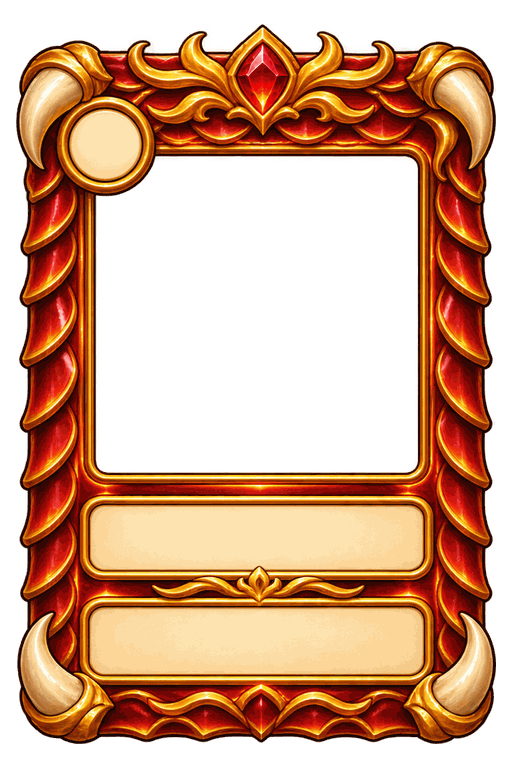
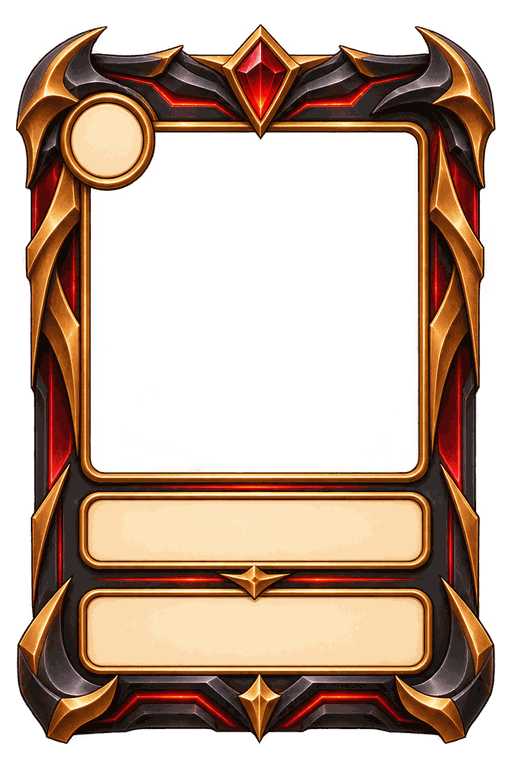
竜族フレームを黒い竜鋼と翼の紋章へ変更する

diff --git a/js/ui/precache.js b/js/ui/precache.js
@@ -1,2 +1,2 @@
-self.CF_CACHE_VERSION="59a6d4855ade45ad";
+self.CF_CACHE_VERSION="dd64a51144a1c13c";
 self.CF_ASSETS=["index.html","manifest.webmanifest","css/accessibility.css","css/account.css","css/battle.css","css/beast.css","css/card-base.css","css/card-zoom.css","css/chat.css","css/coin-toss.css","css/components.css","css/deck.css","css/experience.css","css/finishing-art.css","css/fit.css","css/help-guide.css","css/hologram.css","css/home-tabs.css","css/home.css","css/kingdom.css","css/layout.css","css/mana-growth.css","css/materials.css","css/motion.css","css/mp.css","css/polish.css","css/rank-frames.css","css/rank-rewards.css","css/rarity-assets.css","css/rarity-fx.css","css/settings.css","css/stage.css","css/step5.css","css/style.css","css/text-fit.css","css/theme.css","css/tokens.css","css/tutorial.css","css/weather.css","js/game/Card.js","js/game/Castle.js","js/game/Elements.js","js/game/Game.js","js/game/Monster.js","js/game/Player.js","js/game/Road.js","js/game/Setup.js","js/game/Soldier.js","js/game/Stage.js","js/game/Weather.js","js/game/strategies.js","js/game/visibility.js","js/main.js","js/ui/Accessibility.js","js/ui/Account.js","js/ui/AccountPanel.js","js/ui/Animations.js","js/ui/BattleLayout.js","js/ui/Card3D.js","js/ui/CardGL.js","js/ui/CardGuide.js","js/ui/CardInfo.js","js/ui/CardRelief.js","js/ui/CardZoom.js","js/ui/ChatView.js","js/ui/CollectionView.js","js/ui/Cosmetics.js","js/ui/DebugPanel.js","js/ui/DeckEditor.js","js/ui/DeckPreview.js","js/ui/DeckStore.js","js/ui/HandView.js","js/ui/HelpView.js","js/ui/Hologram.js","js/ui/Home.js","js/ui/LocalSetup.js","js/ui/MatchStats.js","js/ui/MaterialSkin.js","js/ui/MissionView.js","js/ui/Music.js","js/ui/OnlineClient.js","js/ui/ProfileView.js","js/ui/ProgressPanel.js","js/ui/Progression.js","js/ui/RankEmblem.js","js/ui/RankRewardsView.js","js/ui/RankedView.js","js/ui/Renderer.js","js/ui/RoomView.js","js/ui/Session.js","js/ui/Settings.js","js/ui/SocialView.js","js/ui/Sound.js","js/ui/Targeting.js","js/ui/Tutorial.js","js/ui/UpgradePanel.js","js/ui/WeatherView.js","js/ui/art.js","js/ui/card-shapes.js","js/ui/cardFrame.js","js/ui/cardView.js","js/ui/config.js","js/ui/factionArt.js","js/ui/handOrder.js","js/ui/look.js","js/ui/motion.js","js/ui/musicScene.js","js/ui/pills.js","js/ui/profileArt.js","js/ui/rarity.js","js/ui/skinArt.js","js/ui/stories.js","js/ui/syncCheck.js","js/ui/text.js","js/vendor/three/BufferGeometryUtils.js","js/vendor/three/GLTFLoader.js","js/vendor/three/three.module.min.js","data/cards.json","data/castles.json","data/classic/cards.json","data/classic/elements.json","data/classic/factions/dragon.json","data/classic/factions/forest.json","data/classic/reactions.json","data/classic/rules.json","data/decks.json","data/factions/cards/demon.json","data/factions/cards/dragon.json","data/factions/cards/forest.json","data/factions/cards/kingdom.json","data/factions/elements.json","data/factions/factions.json","data/factions/reactions.json","data/factions/rules.json","data/gacha.json","data/missions.json","data/modes.json","data/monsters.json","data/profile.json","data/progression.json","data/ranks.json","data/rarities.json","data/rules.json","data/seasons.json","data/shop.json","data/stages.json","data/stamps.json","data/upgrades.json","data/weather.json","assets/asset-manifest.json","assets/bg/board-meadow-compact.png","assets/bg/board-meadow.png","assets/bg/board.png","assets/bg/home-account.png","assets/bg/home-castle.png","assets/bg/home-deck.png","assets/bg/home-gacha.png","assets/bg/home-settings.png","assets/bg/home-sky.png","assets/bg/kingdom-meadow.png","assets/bg/kingdom-valley.png","assets/bg/stage-dark-forest.png","assets/bg/stage-ice.png","assets/bg/stage-lava.png","assets/bg/stage-meadow.png","assets/bg/stage-ruins.png","assets/bg/title-compact.png","assets/bg/title.png","assets/cards/card-absolute-zero.png","assets/cards/card-adapt.png","assets/cards/card-antidote.png","assets/cards/card-apocalypse.png","assets/cards/card-apprentice-archer.png","assets/cards/card-apprentice-mage.png","assets/cards/card-archer.png","assets/cards/card-archmage.png","assets/cards/card-attack-dice.png","assets/cards/card-barrier.png","assets/cards/card-beast-bat.png","assets/cards/card-beast-demon-king.png","assets/cards/card-beast-demon.png","assets/cards/card-beast-dragon.png","assets/cards/card-beast-ghost.png","assets/cards/card-beast-goblin.png","assets/cards/card-beast-golem.png","assets/cards/card-beast-mimic.png","assets/cards/card-beast-skeleton.png","assets/cards/card-beast-slime.png","assets/cards/card-beast-treant.png","assets/cards/card-beast-vampire.png","assets/cards/card-big-shield.png","assets/cards/card-big-thunder.png","assets/cards/card-blessing.png","assets/cards/card-bolt.png","assets/cards/card-buff-dice.png","assets/cards/card-cavalry.png","assets/cards/card-coin-dice.png","assets/cards/card-death-mist.png","assets/cards/card-decoy.png","assets/cards/card-deep-freeze.png","assets/cards/card-desperate-shot.png","assets/cards/card-dragon-knight.png","assets/cards/card-earth-hammer.png","assets/cards/card-earth-king.png","assets/cards/card-earth-spirit.png","assets/cards/card-fac-demon-blood-veil.png","assets/cards/card-fac-demon-bone-shield.png","assets/cards/card-fac-demon-chaos-pulse.png","assets/cards/card-fac-demon-chaos-rod.png","assets/cards/card-fac-demon-curse-mark.png","assets/cards/card-fac-demon-curser.png","assets/cards/card-fac-demon-echo-soul.png","assets/cards/card-fac-demon-frost-blade.png","assets/cards/card-fac-demon-frost-breath.png","assets/cards/card-fac-demon-imp.png","assets/cards/card-fac-demon-poison-mist.png","assets/cards/card-fac-demon-shadow-scythe.png","assets/cards/card-fac-demon-shadow.png","assets/cards/card-fac-demon-skeleton.png","assets/cards/card-fac-demon-soul-shard.png","assets/cards/card-fac-dragon-ash-veil.png","assets/cards/card-fac-dragon-blood-drop.png","assets/cards/card-fac-dragon-bolt.png","assets/cards/card-fac-dragon-dragoon.png","assets/cards/card-fac-dragon-fang-sword.png","assets/cards/card-fac-dragon-fireball.png","assets/cards/card-fac-dragon-flame-breath.png","assets/cards/card-fac-dragon-flame-whelp.png","assets/cards/card-fac-dragon-recruit.png","assets/cards/card-fac-dragon-thunder-spear.png","assets/cards/card-fac-dragon-thunder-whelp.png","assets/cards/card-fac-dragon-whelp-scale.png","assets/cards/card-fac-forest-bark-shield.png","assets/cards/card-fac-forest-beastman.png","assets/cards/card-fac-forest-druid.png","assets/cards/card-fac-forest-earth-spirit.png","assets/cards/card-fac-forest-elf.png","assets/cards/card-fac-forest-fire-bolt.png","assets/cards/card-fac-forest-fire-spirit.png","assets/cards/card-fac-forest-fissure.png","assets/cards/card-fac-forest-gust.png","assets/cards/card-fac-forest-life-drop.png","assets/cards/card-fac-forest-thorn-wall.png","assets/cards/card-fac-forest-water-spirit.png","assets/cards/card-fac-forest-water-stream.png","assets/cards/card-fac-forest-wind-spirit.png","assets/cards/card-fac-king-archer.png","assets/cards/card-fac-king-cavalry.png","assets/cards/card-fac-king-decoy.png","assets/cards/card-fac-king-heal.png","assets/cards/card-fac-king-heavy.png","assets/cards/card-fac-king-holy-ray.png","assets/cards/card-fac-king-holy-sword.png","assets/cards/card-fac-king-infantry.png","assets/cards/card-fac-king-lumina-lance.png","assets/cards/card-fac-king-lumina.png","assets/cards/card-fac-king-minor-heal.png","assets/cards/card-fac-king-priest.png","assets/cards/card-fac-king-purify.png","assets/cards/card-fac-king-shield.png","assets/cards/card-fac-king-wall.png","assets/cards/card-fire-king.png","assets/cards/card-fire-spirit.png","assets/cards/card-fireball.png","assets/cards/card-flame-sword.png","assets/cards/card-frost-breath.png","assets/cards/card-frozen-world.png","assets/cards/card-gate.png","assets/cards/card-giant.png","assets/cards/card-glacier.png","assets/cards/card-god-dice.png","assets/cards/card-god-shield.png","assets/cards/card-god-sword.png","assets/cards/card-goddess.png","assets/cards/card-gold-vein.png","assets/cards/card-great-earth-spirit.png","assets/cards/card-great-fire-spirit.png","assets/cards/card-great-heal.png","assets/cards/card-great-water-spirit.png","assets/cards/card-great-wind-spirit.png","assets/cards/card-heal-dice.png","assets/cards/card-heal.png","assets/cards/card-heavy.png","assets/cards/card-hero.png","assets/cards/card-holy-light.png","assets/cards/card-holy-shield.png","assets/cards/card-holy-sword.png","assets/cards/card-infantry.png","assets/cards/card-inferno.png","assets/cards/card-iron-sword.png","assets/cards/card-judgment.png","assets/cards/card-king-treasure.png","assets/cards/card-knight.png","assets/cards/card-life-steal.png","assets/cards/card-longbowman.png","assets/cards/card-mage.png","assets/cards/card-magic-sword.png","assets/cards/card-mana-crystal.png","assets/cards/card-mana-dice.png","assets/cards/card-mana-drop.png","assets/cards/card-mana-raid.png","assets/cards/card-mana-shard.png","assets/cards/card-mana-spring.png","assets/cards/card-meteor.png","assets/cards/card-minor-heal.png","assets/cards/card-paladin.png","assets/cards/card-plague.png","assets/cards/card-poison-mist.png","assets/cards/card-powder-keg.png","assets/cards/card-raijin.png","assets/cards/card-random-dice.png","assets/cards/card-reflect.png","assets/cards/card-sage.png","assets/cards/card-sandbag.png","assets/cards/card-scout.png","assets/cards/card-shield-dice.png","assets/cards/card-shield.png","assets/cards/card-sky-archer.png","assets/cards/card-sniper.png","assets/cards/card-sorcerer.png","assets/cards/card-spearman.png","assets/cards/card-starfall.png","assets/cards/card-steel-shield.png","assets/cards/card-stone-wall.png","assets/cards/card-thief.png","assets/cards/card-thunder.png","assets/cards/card-toxic-rain.png","assets/cards/card-treasure.png","assets/cards/card-venom.png","assets/cards/card-wall.png","assets/cards/card-water-king.png","assets/cards/card-water-spear.png","assets/cards/card-water-spirit.png","assets/cards/card-weather-call.png","assets/cards/card-wind-bow.png","assets/cards/card-wind-king.png","assets/cards/card-wind-spirit.png","assets/cards/card-world-tree-dew.png","assets/cards/frame-beast.png","assets/cards/frame-common.png","assets/cards/frame-epic.png","assets/cards/frame-faction-demon.png","assets/cards/frame-faction-dragon.png","assets/cards/frame-faction-forest.png","assets/cards/frame-faction-kingdom.png","assets/cards/frame-legendary.png","assets/cards/frame-rare.png","assets/cards/frame-skin-bronze.png","assets/cards/frame-skin-champion.png","assets/cards/frame-skin-diamond.png","assets/cards/frame-skin-gold.png","assets/cards/frame-skin-iron.png","assets/cards/frame-skin-master.png","assets/cards/frame-skin-platinum.png","assets/cards/frame-skin-silver.png","assets/cards/frame-special.png","assets/cards/frame-uncommon.png","assets/cards/relief/frame-beast-raised.png","assets/cards/relief/frame-beast-relief.png","assets/cards/relief/frame-common-raised.png","assets/cards/relief/frame-common-relief.png","assets/cards/relief/frame-epic-raised.png","assets/cards/relief/frame-epic-relief.png","assets/cards/relief/frame-legendary-raised.png","assets/cards/relief/frame-legendary-relief.png","assets/cards/relief/frame-rare-raised.png","assets/cards/relief/frame-rare-relief.png","assets/cards/relief/frame-skin-bronze-raised.png","assets/cards/relief/frame-skin-bronze-relief.png","assets/cards/relief/frame-skin-champion-raised.png","assets/cards/relief/frame-skin-champion-relief.png","assets/cards/relief/frame-skin-diamond-raised.png","assets/cards/relief/frame-skin-diamond-relief.png","assets/cards/relief/frame-skin-gold-raised.png","assets/cards/relief/frame-skin-gold-relief.png","assets/cards/relief/frame-skin-iron-raised.png","assets/cards/relief/frame-skin-iron-relief.png","assets/cards/relief/frame-skin-master-raised.png","assets/cards/relief/frame-skin-master-relief.png","assets/cards/relief/frame-skin-platinum-raised.png","assets/cards/relief/frame-skin-platinum-relief.png","assets/cards/relief/frame-skin-silver-raised.png","assets/cards/relief/frame-skin-silver-relief.png","assets/cards/relief/frame-special-raised.png","assets/cards/relief/frame-special-relief.png","assets/cards/relief/frame-uncommon-raised.png","assets/cards/relief/frame-uncommon-relief.png","assets/cards/window-beast.png","assets/cards/window-common.png","assets/cards/window-epic.png","assets/cards/window-legendary.png","assets/cards/window-rare.png","assets/cards/window-special.png","assets/cards/window-uncommon.png","assets/castles/barracks-blue-damaged-1.png","assets/castles/barracks-blue-damaged-2.png","assets/castles/barracks-blue-damaged-3.png","assets/castles/barracks-blue.png","assets/castles/barracks-orange-damaged-1.png","assets/castles/barracks-orange-damaged-2.png","assets/castles/barracks-orange-damaged-3.png","assets/castles/barracks-orange.png","assets/castles/castle-blue-damaged-1.png","assets/castles/castle-blue-damaged-2.png","assets/castles/castle-blue-damaged-3.png","assets/castles/castle-blue-ruined.png","assets/castles/castle-blue.png","assets/castles/castle-orange-damaged-1.png","assets/castles/castle-orange-damaged-2.png","assets/castles/castle-orange-damaged-3.png","assets/castles/castle-orange-ruined.png","assets/castles/castle-orange.png","assets/castles/fortress-blue-damaged-1.png","assets/castles/fortress-blue-damaged-2.png","assets/castles/fortress-blue-damaged-3.png","assets/castles/fortress-blue.png","assets/castles/fortress-orange-damaged-1.png","assets/castles/fortress-orange-damaged-2.png","assets/castles/fortress-orange-damaged-3.png","assets/castles/fortress-orange.png","assets/castles/tower-blue-damaged-1.png","assets/castles/tower-blue-damaged-2.png","assets/castles/tower-blue-damaged-3.png","assets/castles/tower-blue.png","assets/castles/tower-orange-damaged-1.png","assets/castles/tower-orange-damaged-2.png","assets/castles/tower-orange-damaged-3.png","assets/castles/tower-orange.png","assets/frames/edge-faction-demon.png","assets/frames/edge-faction-dragon.png","assets/frames/edge-faction-forest.png","assets/frames/edge-faction-kingdom.png","assets/frames/factions.json","assets/frames/rank-frame-bronze.png","assets/frames/rank-frame-champion.png","assets/frames/rank-frame-diamond.png","assets/frames/rank-frame-gold.png","assets/frames/rank-frame-iron.png","assets/frames/rank-frame-master.png","assets/frames/rank-frame-platinum.png","assets/frames/rank-frame-silver.png","assets/fx/dust.png","assets/fx/evolve-1.png","assets/fx/evolve-2.png","assets/fx/evolve-3.png","assets/fx/explosion.png","assets/fx/fireball.png","assets/fx/fusion.png","assets/fx/heal.png","assets/fx/ice.png","assets/fx/lightning.png","assets/fx/lucky-reward.png","assets/fx/poison.png","assets/models/card-beast.glb","assets/models/card-common.glb","assets/models/card-epic.glb","assets/models/card-legendary.glb","assets/models/card-rare.glb","assets/models/card-skin-champion.glb","assets/models/card-skin-diamond.glb","assets/models/card-skin-master.glb","assets/models/card-skin-platinum.glb","assets/models/card-slab.glb","assets/models/card-special.glb","assets/models/card-uncommon.glb","assets/models/rank-emblem-champion.glb","assets/models/rank-emblem-diamond.glb","assets/models/rank-emblem-master.glb","assets/models/rank-emblem-platinum.glb","assets/profiles/archer.png","assets/profiles/hero.png","assets/profiles/infantry.png","assets/profiles/knight.png","assets/profiles/mage.png","assets/profiles/spearman.png","assets/ranks/rank-bronze.png","assets/ranks/rank-champion.png","assets/ranks/rank-diamond.png","assets/ranks/rank-gold.png","assets/ranks/rank-iron.png","assets/ranks/rank-master.png","assets/ranks/rank-platinum.png","assets/ranks/rank-silver.png","assets/skins/back-crimson-raised.png","assets/skins/back-crimson.png","assets/skins/back-faction-demon.png","assets/skins/back-faction-dragon.png","assets/skins/back-faction-forest.png","assets/skins/back-faction-kingdom.png","assets/skins/back-forest-raised.png","assets/skins/back-forest.png","assets/skins/back-gold-raised.png","assets/skins/back-gold.png","assets/skins/back-rank-bronze-raised.png","assets/skins/back-rank-bronze-relief.png","assets/skins/back-rank-bronze.png","assets/skins/back-rank-champion-raised.png","assets/skins/back-rank-champion-relief.png","assets/skins/back-rank-champion.png","assets/skins/back-rank-diamond-raised.png","assets/skins/back-rank-diamond-relief.png","assets/skins/back-rank-diamond.png","assets/skins/back-rank-gold-raised.png","assets/skins/back-rank-gold-relief.png","assets/skins/back-rank-gold.png","assets/skins/back-rank-iron-raised.png","assets/skins/back-rank-iron-relief.png","assets/skins/back-rank-iron.png","assets/skins/back-rank-master-raised.png","assets/skins/back-rank-master-relief.png","assets/skins/back-rank-master.png","assets/skins/back-rank-platinum-raised.png","assets/skins/back-rank-platinum-relief.png","assets/skins/back-rank-platinum.png","assets/skins/back-rank-silver-raised.png","assets/skins/back-rank-silver-relief.png","assets/skins/back-rank-silver.png","assets/skins/back-royal-raised.png","assets/skins/back-royal.png","assets/skins/castle-crimson.png","assets/skins/castle-forest.png","assets/skins/castle-frost.png","assets/skins/castle-gold.png","assets/skins/castle-shadow.png","assets/skins/fx-azure.png","assets/skins/fx-emerald.png","assets/skins/fx-gold.png","assets/skins/fx-violet.png","assets/skins/icon-dragon-knight.png","assets/skins/icon-giant.png","assets/skins/icon-paladin.png","assets/skins/icon-sage.png","assets/skins/icon-scout.png","assets/skins/icon-sniper.png","assets/skins/title-hunter.png","assets/skins/title-legend.png","assets/skins/title-lucky.png","assets/skins/title-rookie.png","assets/skins/title-wall.png","assets/skins/unit-crimson.png","assets/skins/unit-forest.png","assets/skins/unit-frost.png","assets/skins/unit-gold.png","assets/skins/unit-royal.png","assets/skins/unit-shadow.png","assets/skins/win-aurora.png","assets/skins/win-gold.png","assets/skins/win-sakura.png","assets/ui/app-icon-192.png","assets/ui/app-icon-512.png","assets/ui/app-icon-maskable-512.png","assets/ui/apple-touch-icon.png","assets/ui/banner-win.png","assets/ui/btn-blue.png","assets/ui/btn-cream.png","assets/ui/btn-green.png","assets/ui/btn-orange.png","assets/ui/btn-red.png","assets/ui/btn-round.png","assets/ui/button-end-turn.png","assets/ui/card-back.png","assets/ui/home/casual.png","assets/ui/home/catalog.png","assets/ui/home/deck.png","assets/ui/home/friend.png","assets/ui/home/gacha.png","assets/ui/home/mission.png","assets/ui/home/profile.png","assets/ui/home/rank.png","assets/ui/home/ranking.png","assets/ui/home/settings.png","assets/ui/home/shop.png","assets/ui/home/skin.png","assets/ui/icon-coin.png","assets/ui/icon-earth.png","assets/ui/icon-fire.png","assets/ui/icon-heart.png","assets/ui/icon-help.png","assets/ui/icon-kind-defense.png","assets/ui/icon-kind-soldier.png","assets/ui/icon-kind-spell.png","assets/ui/icon-kind-weapon.png","assets/ui/icon-kind-wild.png","assets/ui/icon-luck.png","assets/ui/icon-mode-local.png","assets/ui/icon-mode-online.png","assets/ui/icon-mode-solo.png","assets/ui/icon-mp.png","assets/ui/icon-rarity-common.png","assets/ui/icon-rarity-epic.png","assets/ui/icon-rarity-legendary.png","assets/ui/icon-rarity-rare.png","assets/ui/icon-rarity-special.png","assets/ui/icon-rarity-uncommon.png","assets/ui/icon-water.png","assets/ui/icon-wind.png","assets/ui/kingdom-crest.png","assets/ui/kingdom-parchment.png","assets/ui/kingdom-platform.png","assets/ui/kingdom-primary.png","assets/ui/kingdom-secondary.png","assets/ui/kingdom-wood.png","assets/ui/logo.png","assets/ui/natural/danger-40-left.png","assets/ui/natural/danger-40-middle.png","assets/ui/natural/danger-40-right.png","assets/ui/natural/danger-44-left.png","assets/ui/natural/danger-44-middle.png","assets/ui/natural/danger-44-right.png","assets/ui/natural/danger-72-left.png","assets/ui/natural/danger-72-middle.png","assets/ui/natural/danger-72-right.png","assets/ui/natural/frame.png","assets/ui/natural/leather-tile.png","assets/ui/natural/neutral-40-left.png","assets/ui/natural/neutral-40-middle.png","assets/ui/natural/neutral-40-right.png","assets/ui/natural/neutral-44-left.png","assets/ui/natural/neutral-44-middle.png","assets/ui/natural/neutral-44-right.png","assets/ui/natural/neutral-72-left.png","assets/ui/natural/neutral-72-middle.png","assets/ui/natural/neutral-72-right.png","assets/ui/natural/neutral-wide-full.png","assets/ui/natural/oak-tile.png","assets/ui/natural/paper-tile.png","assets/ui/natural/primary-40-left.png","assets/ui/natural/primary-40-middle.png","assets/ui/natural/primary-40-right.png","assets/ui/natural/primary-44-left.png","assets/ui/natural/primary-44-middle.png","assets/ui/natural/primary-44-right.png","assets/ui/natural/primary-72-left.png","assets/ui/natural/primary-72-middle.png","assets/ui/natural/primary-72-right.png","assets/ui/natural/primary-wide-full.png","assets/ui/natural/round-neutral.png","assets/ui/natural/round-selected.png","assets/ui/natural/selected-40-left.png","assets/ui/natural/selected-40-middle.png","assets/ui/natural/selected-40-right.png","assets/ui/natural/selected-44-left.png","assets/ui/natural/selected-44-middle.png","assets/ui/natural/selected-44-right.png","assets/ui/natural/selected-72-left.png","assets/ui/natural/selected-72-middle.png","assets/ui/natural/selected-72-right.png","assets/ui/panel-parchment.png","assets/ui/result-defeat.png","assets/ui/result-victory.png","assets/ui/sign-hp.png","assets/ui/stamps/again.png","assets/ui/stamps/gg.png","assets/ui/stamps/go.png","assets/ui/stamps/hello.png","assets/ui/stamps/nice.png","assets/ui/stamps/ouch.png","assets/ui/stamps/scared.png","assets/ui/stamps/smug.png","assets/ui/stamps/sorry.png","assets/ui/stamps/thanks.png","assets/ui/stamps/think.png","assets/ui/stamps/yay.png","assets/ui/tap-plate.png","assets/ui/title-castle-blue.png","assets/ui/title-castle-orange.png","assets/ui/title-infantry-orange.png","assets/ui/title-knight-blue.png","assets/ui/weather-coin-rain.png","assets/ui/weather-fog.png","assets/ui/weather-heavy-rain.png","assets/ui/weather-rain.png","assets/ui/weather-sandstorm.png","assets/ui/weather-storm.png","assets/ui/weather-sunny.png","assets/units/apprentice-archer-blue.png","assets/units/apprentice-archer-orange.png","assets/units/apprentice-mage-blue.png","assets/units/apprentice-mage-orange.png","assets/units/archer-blue.png","assets/units/archer-orange.png","assets/units/archmage-blue.png","assets/units/archmage-orange.png","assets/units/cavalry-blue.png","assets/units/cavalry-orange.png","assets/units/dragon-knight-blue.png","assets/units/dragon-knight-orange.png","assets/units/earth-spirit.png","assets/units/fire-spirit.png","assets/units/giant-blue.png","assets/units/giant-orange.png","assets/units/great-earth-spirit.png","assets/units/great-fire-spirit.png","assets/units/great-water-spirit.png","assets/units/great-wind-spirit.png","assets/units/heavy-blue.png","assets/units/heavy-orange.png","assets/units/hero-blue.png","assets/units/hero-orange.png","assets/units/infantry-blue.png","assets/units/infantry-orange.png","assets/units/knight-blue.png","assets/units/knight-orange.png","assets/units/longbowman-blue.png","assets/units/longbowman-orange.png","assets/units/mage-blue.png","assets/units/mage-orange.png","assets/units/monster-bat.png","assets/units/monster-demon-king.png","assets/units/monster-demon.png","assets/units/monster-dragon.png","assets/units/monster-ghost.png","assets/units/monster-goblin.png","assets/units/monster-golem.png","assets/units/monster-mimic.png","assets/units/monster-skeleton.png","assets/units/monster-slime.png","assets/units/monster-treant.png","assets/units/monster-vampire.png","assets/units/paladin-blue.png","assets/units/paladin-orange.png","assets/units/sage-blue.png","assets/units/sage-orange.png","assets/units/scout-blue.png","assets/units/scout-orange.png","assets/units/sky-archer-blue.png","assets/units/sky-archer-orange.png","assets/units/sniper-blue.png","assets/units/sniper-orange.png","assets/units/sorcerer-blue.png","assets/units/sorcerer-orange.png","assets/units/spearman-blue.png","assets/units/spearman-orange.png","assets/units/water-spirit.png","assets/units/wind-spirit.png"];

diff --git a/assets/review/faction-frames/index.html b/assets/review/faction-frames/index.html
@@ -3,7 +3,7 @@
 <h1>4陣営の表・側面・裏</h1><p>同じ縮尺で表示。共通外形64×96mm、本体厚3.52mm。<a href="construction.svg">寸法・接続ガイド</a> ／ <a href="README.md">Blender向け仕様</a></p><main></main>
 <script type="module">
 const root=new URL('../../../',location.href);const d=await(await fetch(new URL('assets/frames/factions.json',root))).json();
-const labels={kingdom:'王国：銀翼と王冠',forest:'森の同盟：編み根と琥珀',demon:'魔族軍：黒鉄と骨',dragon:'竜族帝国：鱗と爪'};
+const labels={kingdom:'王国：銀翼と王冠',forest:'森の同盟：編み根と琥珀',demon:'魔族軍：黒鉄と骨',dragon:'竜族帝国：竜鋼と翼'};
 for(const id of ['kingdom','forest','demon','dragon']){const f=d.factions[id],a=document.createElement('article');a.innerHTML=`<h2>${labels[id]}</h2><div class="views"><img class="face" alt="表" src="${new URL('assets/'+f.views.front,root)}"><img class="edge" alt="右側面" src="${new URL('assets/'+f.views.edge,root)}"><img class="face" alt="裏" src="${new URL('assets/'+f.views.back,root)}"></div><div class="labels"><span>表</span><span>右側面</span><span>裏</span></div>`;document.querySelector('main').append(a)}
 await Promise.all([...document.images].map(i=>i.decode()));document.documentElement.dataset.ready='true';
 </script></html>

diff --git a/assets/review/faction-frames/README.md b/assets/review/faction-frames/README.md
@@ -1,6 +1,6 @@
 # 4陣営カードの表・側面・裏
 
-既存の `frame-legendary.png` の立体感・磨かれた素材・装飾密度を参考に、4陣営の表・側面・裏を同時に生成。王国は銀翼・王冠・青い宝石、森は編み根・琥珀・生命樹、魔族は黒鉄・骨の角・紫水晶、竜は重なる鱗・爪・紅玉。表の枠自体に陣営固有の造形を持たせ、裏面にも大きなレリーフを置いた。キャラクターの絵は入れない。
+既存の `frame-legendary.png` の立体感・磨かれた素材・装飾密度を参考に、4陣営の表・側面・裏を同時に生成。王国は銀翼・王冠・青い宝石、森は編み根・琥珀・生命樹、魔族は黒鉄・骨の角・紫水晶、竜は黒い竜鋼・角・翼の紋章・紅玉。表の枠自体に陣営固有の造形を持たせ、裏面にも大きなレリーフを置いた。キャラクターの絵は入れない。
 
 ## ファイル
 
@@ -17,10 +17,10 @@
 数値と共通外形は `factions.json` / `construction.svg` を正とする。幅64mm・高さ96mm・本体厚3.52mm（既存UIの厚み/幅0.055）、角半径3mm、面取り0.6mm。実寸を変える場合は全寸法を同じ倍率で変更する。
 
 1. **表裏共通の板を1枚作る。** 表用と裏用の別々の外周メッシュを画像の輪郭から作らない。原画には生成上の小さな差があるため、共通の角丸長方形で揃える。
-2. **縁を連続した一周の構造にする。** Z=-1.76〜-1.36mmが裏の金属レール、-1.36〜+1.36mmが芯材、+1.36〜+1.76mmが表の金属レール。芯材は王国が青いエナメル、森が編み根と木、魔族が紫の黒鉄、竜が赤い鱗。表裏の装飾は共通レールで受け、側面の芯材へ細かな模様の位相を無理に繋がない。
-3. **四隅の留め具を表裏共有の部品にする。** 中心はX=±27mm、Y=±43mm、10×10mm、Z=-2.1〜+2.1mm。角の丸みに沿わせる。正面だけの薄い金具を別々に貼る構造にしない。これは部品の基準位置・取り付け範囲で、四角い金具の外形指定ではない。王国は宝石金具、森は琥珀を包む根、魔族は黒鉄金具、竜は爪の形へ造形する。王国の中央宝石と森の中央の帯は、Y=0の左右共通カラーとして追加する。
+2. **縁を連続した一周の構造にする。** Z=-1.76〜-1.36mmが裏の金属レール、-1.36〜+1.36mmが芯材、+1.36〜+1.76mmが表の金属レール。芯材は王国が青いエナメル、森が編み根と木、魔族が紫の黒鉄、竜が黒い竜鋼と赤いエナメル。表裏の装飾は共通レールで受け、側面の芯材へ細かな模様の位相を無理に繋がない。
+3. **四隅の留め具を表裏共有の部品にする。** 中心はX=±27mm、Y=±43mm、10×10mm、Z=-2.1〜+2.1mm。角の丸みに沿わせる。正面だけの薄い金具を別々に貼る構造にしない。これは部品の基準位置・取り付け範囲で、四角い金具の外形指定ではない。王国は宝石金具、森は琥珀を包む根、魔族は黒鉄金具、竜は金属の角の形へ造形する。王国の中央宝石と森の中央の帯は、Y=0の左右共通カラーとして追加する。
 4. **表の絵・名前・説明を凹ませる。** PNGの透明な絵窓は合成用。実物を表裏へ貫通させず、絵の受け面をZ=+1.0mmに置く。絵の受け面は左11mm・上15.5mm・42×42mm。これは枠の下まで伸ばす絵の台座で、全域の可視範囲ではない。MPの丸い欄が左上に重なるため、主役の安全領域は左14.933mm・上23.333mm・34.133×34.133mm（全4陣営で透明を確認した中央256px四方）。名前と説明はJSONのfrontInsetsを参照。
-5. **模様は面の内側で止める。** 表の王冠・骨の角・葉・鱗は+0.9mm以内、裏の中央紋章は裏面から0.8mm以内の浅いレリーフを目安にする。既存の陰影をそのまま立体の段差に変換しない。
+5. **模様は面の内側で止める。** 表の王冠・骨の角・葉・翼の骨格は+0.9mm以内、裏の中央紋章は裏面から0.8mm以内の浅いレリーフを目安にする。既存の陰影をそのまま立体の段差に変換しない。
 
 ## 表裏の向きと継ぎ目
 
@@ -30,6 +30,6 @@ Blender座標はXが横、Yが上、Zが厚み。表を+Z側、裏を-Z側とす
 
 ## 原画と完成テクスチャの扱い
 
-PNGは**造形・配色を決めるデザイン原画**。継ぎ目なくベイク済みのUVテクスチャや、高さ・法線マップではない。正面と裏面の窓や装飾にはわずかな差があるので、共通の板・縁・留め具を先に作り、原画を参照して模様を載せ、最後にUV展開・ベイクする。根・羽・鱗・骨は表裏の共通レールから立ち上げる。角や中央カラーのように側面を跨ぐ部品は、表・側面・裏を別々に作らず1個の部品として回り込ませる。各陣営の `modelingNotes` も参照する。
+PNGは**造形・配色を決めるデザイン原画**。継ぎ目なくベイク済みのUVテクスチャや、高さ・法線マップではない。正面と裏面の窓や装飾にはわずかな差があるので、共通の板・縁・留め具を先に作り、原画を参照して模様を載せ、最後にUV展開・ベイクする。根・羽・翼の骨格・骨は表裏の共通レールから立ち上げる。角や中央カラーのように側面を跨ぐ部品は、表・側面・裏を別々に作らず1個の部品として回り込ませる。各陣営の `modelingNotes` も参照する。
 
 この画像セットはBlenderでの造形用資料。ゲーム画面への接続とBlenderモデル本体は別工程。
